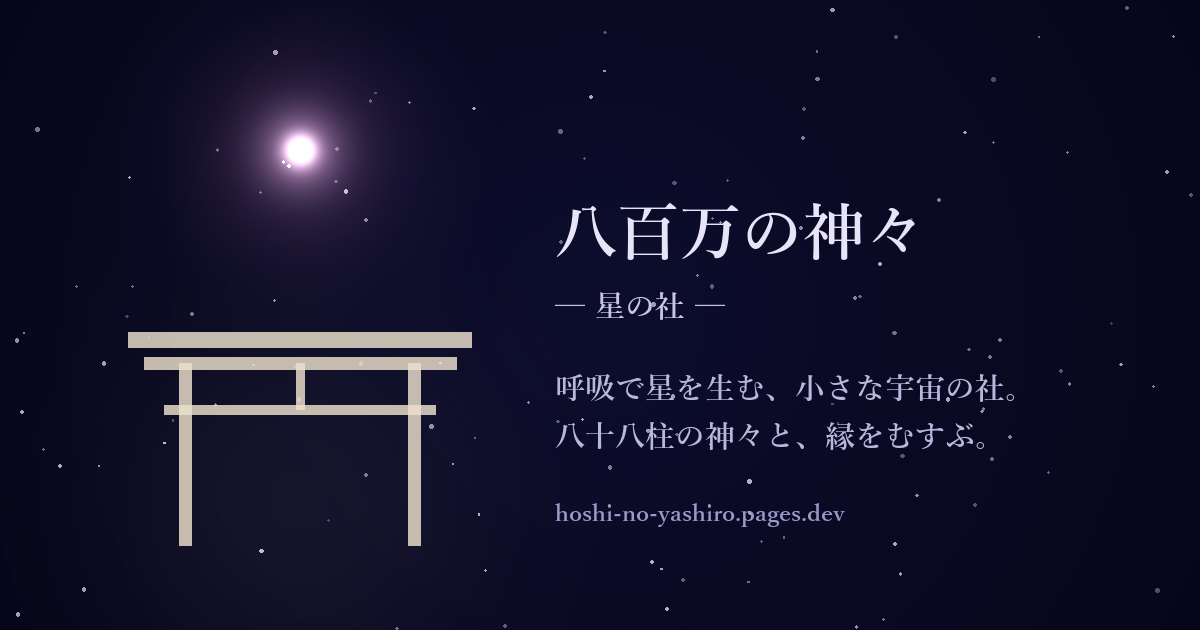
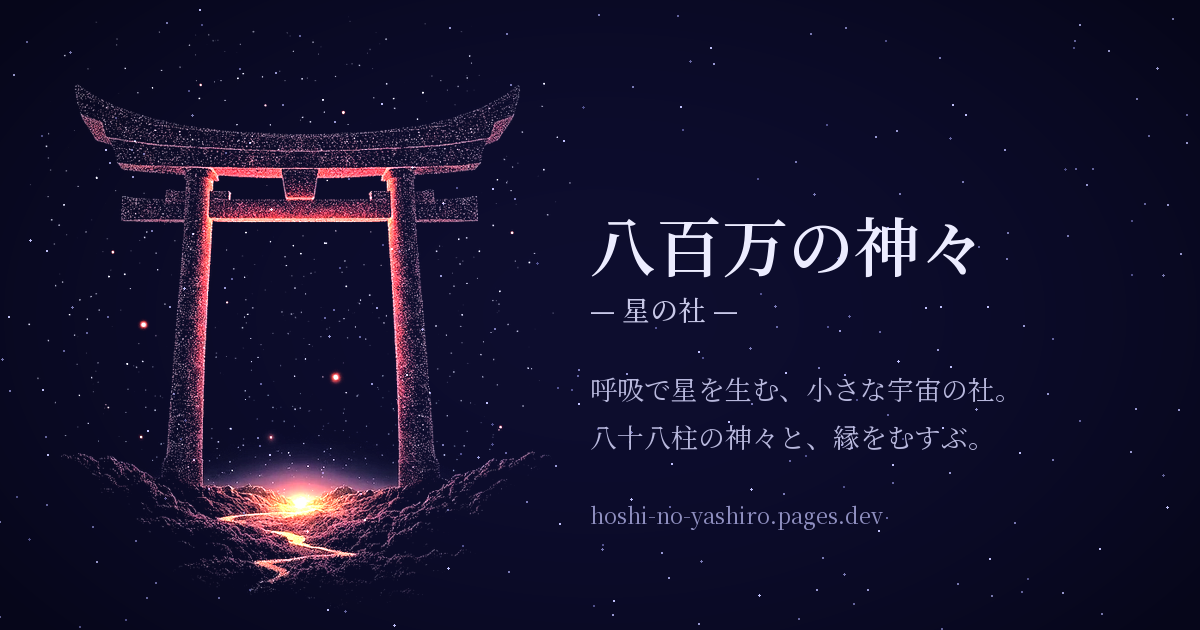
リンクの看板の絵を、星々の鳥居に描き直す ― 線画の鳥居をやめた景色にそろえる
- ogp.png を img/torii-hoshi.webp（空間の鳥居と同じ絵）で作り直し。加算合成で宇宙に溶かす
- 作り直し用に docs/make_ogp.py（Pillow・費用ゼロ）

diff --git a/docs/make_ogp.py b/docs/make_ogp.py
@@ -1,0 +1,62 @@
+# ogp.png（リンクを貼ったときに出る看板の絵・1200×630）を作る
+# 使い方: このフォルダの一つ上（hoshi-no-yashiro）で  python docs/make_ogp.py
+# 鳥居はアプリの空間と同じ img/torii-hoshi.webp（星々の鳥居）。アプリと同じく加算合成で宇宙に溶かす
+# 文字の色はアプリの配色（#ececff / #b8b8dd / #8f8fc0）。字体は Noto Serif JP（Windows標準）
+import random
+from PIL import Image, ImageDraw, ImageFont, ImageChops
+
+W, H = 1200, 630
+FONT = r'C:\Windows\Fonts\NotoSerifJP-VF.ttf'
+
+def font(size, weight):
+    f = ImageFont.truetype(FONT, size)
+    try:
+        f.set_variation_by_axes([weight])
+    except Exception:
+        pass
+    return f
+
+# 夜空: 中央がわずかに明るい濃紺（前の ogp.png と同じ色）
+bg = Image.new('RGB', (W, H))
+px = bg.load()
+cx, cy = W / 2, H / 2
+for y in range(H):
+    for x in range(W):
+        d = min(1.0, (((x - cx) / (W * .62)) ** 2 + ((y - cy) / (H * .75)) ** 2) ** .5)
+        t = d * d
+        px[x, y] = (round(13 - 7 * t), round(13 - 7 * t), round(46 - 20 * t))
+
+# 星屑（毎回同じ並びになるよう種を固定）
+rnd = random.Random(88)
+stars = Image.new('RGB', (W, H))
+sd = ImageDraw.Draw(stars)
+for _ in range(260):
+    x, y = rnd.randrange(W), rnd.randrange(H)
+    b = rnd.choice([70, 90, 110, 140, 180])
+    r = 1 if rnd.random() < .85 else 2
+    sd.ellipse((x - r / 2, y - r / 2, x + r / 2, y + r / 2), fill=(b, b, min(255, b + 30)))
+bg = ImageChops.add(bg, stars)
+
+# 星々の鳥居: RGB×アルファを足す（アプリの AdditiveBlending と同じ考え方）
+torii = Image.open('img/torii-hoshi.webp').convert('RGBA')
+s = 0.86
+torii = torii.resize((round(torii.width * s), round(torii.height * s)), Image.LANCZOS)
+r, g, b, a = torii.split()
+glow = Image.merge('RGB', (
+    ImageChops.multiply(r, a), ImageChops.multiply(g, a), ImageChops.multiply(b, a)))
+glow = glow.point(lambda v: min(255, round(v * 1.35)))   # 小さく表示されても沈まないよう持ち上げる（アプリは×1.45）
+layer = Image.new('RGB', (W, H))
+layer.paste(glow, (300 - torii.width // 2, 330 - torii.height // 2 - 10))
+bg = ImageChops.add(bg, layer)
+
+# 文字（配置は前の ogp.png を踏襲）
+d = ImageDraw.Draw(bg)
+X = 590
+d.text((X, 196), '八百万の神々', font=font(66, 600), fill=(236, 236, 255))
+d.text((X, 288), '— 星の社 —', font=font(28, 500), fill=(200, 200, 232))
+d.text((X, 368), '呼吸で星を生む、小さな宇宙の社。', font=font(27, 400), fill=(184, 184, 221))
+d.text((X, 416), '八十八柱の神々と、縁をむすぶ。', font=font(27, 400), fill=(184, 184, 221))
+d.text((X, 498), 'hoshi-no-yashiro.pages.dev', font=font(22, 400), fill=(143, 143, 192))
+
+bg.save('ogp.png', optimize=True)
+print('ogp.png', bg.size)
